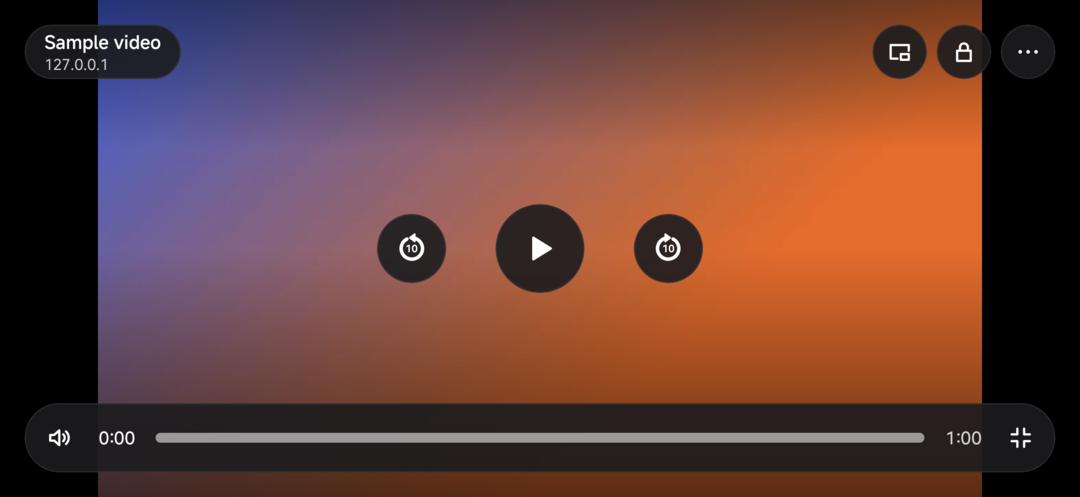
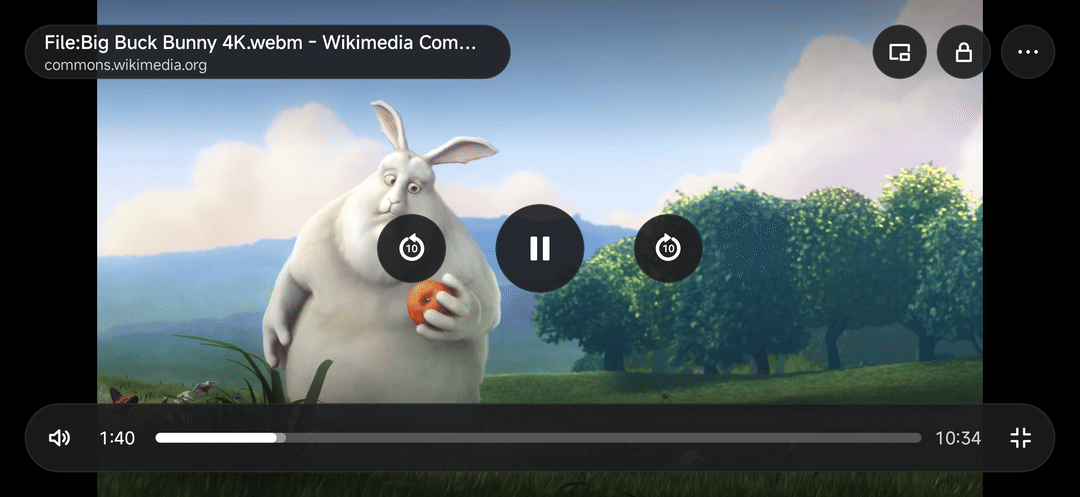
docs(readme): new screenshots on real pages; grid of 6, video player row, About / Settings / What's new row

diff --git a/README.md b/README.md
@@ -54,13 +54,23 @@ Everything, screen by screen: [`docs/FEATURES.md`](docs/FEATURES.md).
 
 ## Screenshots
 
-<!-- Light or dark follows the viewer's theme. Taken on a phone with demo pages. -->
+<!-- Taken on a phone; pages from Wikipedia, Wikimedia Commons and this repository. -->
 
 | Tab stack | A page | Search |
 |:---:|:---:|:---:|
-| <picture><source media="(prefers-color-scheme: dark)" srcset="docs/media/overview-dark.png"><img src="docs/media/overview-light.png" width="240" alt="The tab stack of a space"></picture> | <picture><source media="(prefers-color-scheme: dark)" srcset="docs/media/page-dark.png"><img src="docs/media/page-light.png" width="240" alt="A page with the dock"></picture> | <img src="docs/media/search.png" width="240" alt="The search sheet with suggestions"> |
-| **Private browsing** | **⋯ menu** | **Video player** |
-| <picture><source media="(prefers-color-scheme: dark)" srcset="docs/media/private-dark.png"><img src="docs/media/private-light.png" width="240" alt="The private overview"></picture> | <picture><source media="(prefers-color-scheme: dark)" srcset="docs/media/menu-dark.png"><img src="docs/media/menu-light.png" width="240" alt="The ⋯ menu sheet"></picture> | <img src="docs/media/player.png" width="240" alt="Koan's video player in landscape"> |
+| <img src="docs/media/overview.png" width="240" alt="The tab stack of a space"> | <img src="docs/media/page.png" width="240" alt="A page with the dock"> | <img src="docs/media/search.png" width="240" alt="The search sheet with history, open tabs and suggestions"> |
+| **Private browsing** | **Translation** | **⋯ menu** |
+| <img src="docs/media/private.png" width="240" alt="The private overview, dark"> | <img src="docs/media/translate.png" width="240" alt="A Chinese page with the translate icon in the address bar"> | <img src="docs/media/menu.png" width="240" alt="The ⋯ menu sheet"> |
+
+### Koan's own video player
+
+<p align="center"><img src="docs/media/player.png" width="780" alt="Koan's video player in landscape on Big Buck Bunny"></p>
+
+### Koan's colours
+
+| About | Settings | What's new |
+|:---:|:---:|:---:|
+| <img src="docs/media/about.png" width="240" alt="The About page"> | <img src="docs/media/settings.png" width="240" alt="Settings, not signed in"> | <img src="docs/media/whatsnew.png" width="240" alt="The What's new sheet for 1.0"> |
 
 ## Install
 

diff --git a/docs/HANDOFF.md b/docs/HANDOFF.md
@@ -19,8 +19,10 @@ Read `CLAUDE.md` first (rules), then this file, then `docs/ROADMAP.md` (status o
   (`ui/browser/TranslateCue.kt`); APK size explained (nothing by mistake).
   Late: depth dim caps back to v0.4.0 (`DepthDimTest`); a depth-cue proposal for beta.2 is
   prototyped on the local branch `depth-cue-proto` only (ROADMAP › For 1.0.0-beta.2).
-  Final prep (2026-11-12, night): README images in `docs/media/` (1080 wide, from the Xiaomi
-  captures, demo pages only; `docs/screenshots/` removed), tour cards 2 and 5 keep their clips
+  Final prep (2026-11-12, night): README images in `docs/media/` (1080 wide, from the Xiaomi;
+  `docs/screenshots/` removed; retaken 2026-11-13: one image each (light, Private dark),
+  Wikipedia / Commons / this repo, 256-colour PNGs; grid of 6, the player full width, then About,
+  Settings signed out (staging copy) and What's new), tour cards 2 and 5 keep their clips
   (owner: approved, fine to ship), CHANGELOG / FEATURES brought up
   to date (translation icon, Private switch, rotation safety net, depth caps). Release notes and
   the Discord post in `reference/` wait for the owner's approval. Local commits not pushed.
